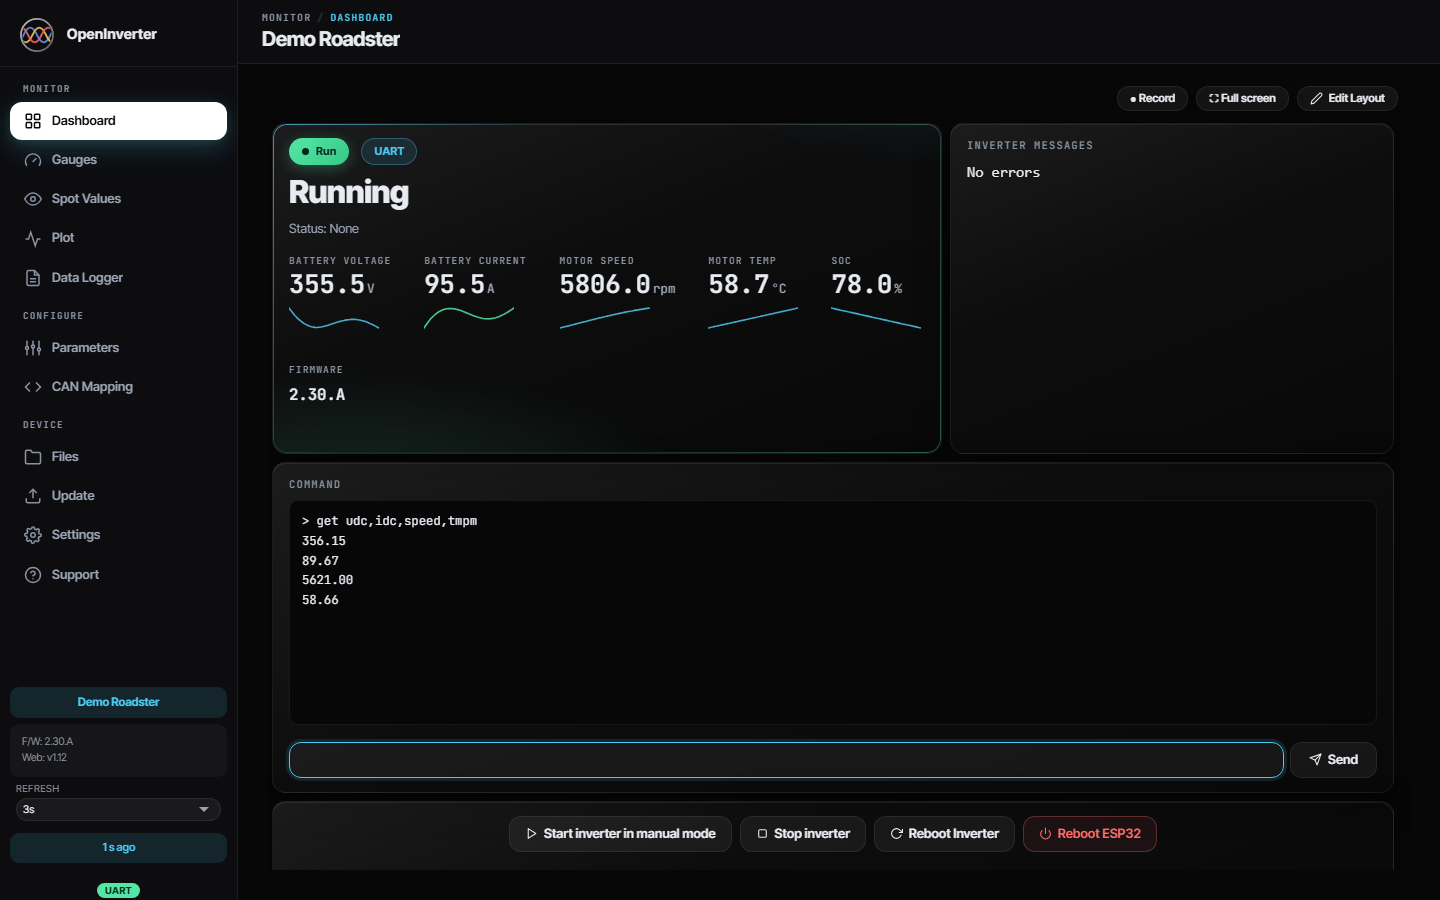
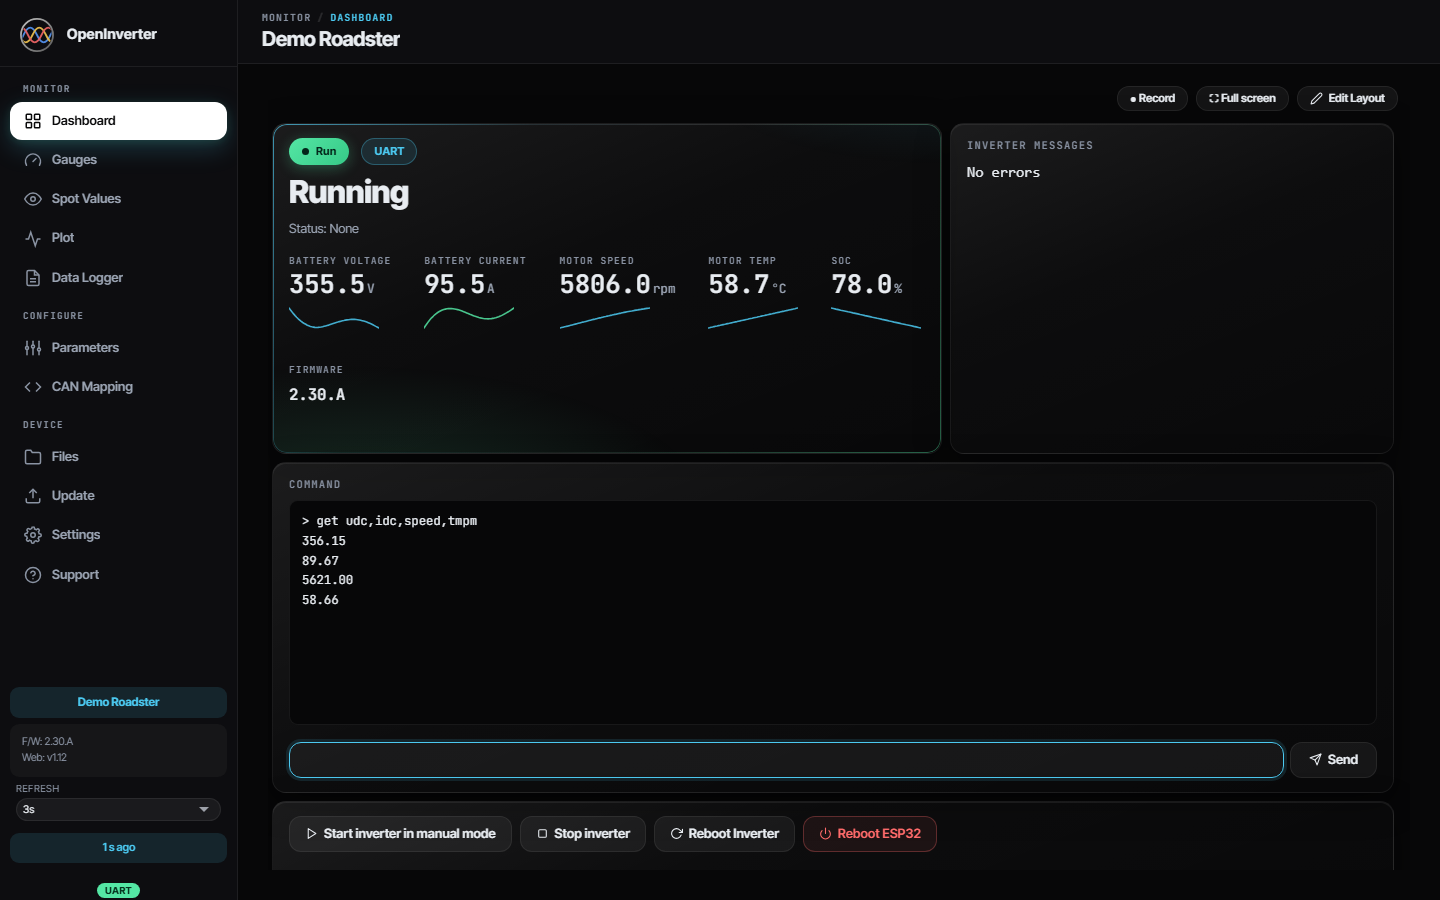
Redesign phase 5: contrast pass and polish
- Light theme: accent and info text deepened to #0369a1 (5.0:1 on the
  ground, was 3.5:1); the Run pill uses #0b7a48 -> #096b3f under white
  text (5.4:1, was 3.5:1) via --pill-ok-a/b. The dark theme already
  passes 4.5:1 for small text throughout.
- Widget wrappers use a wt-<type> modifier: 'widget-actions' collided
  with the button row's class and centred the action buttons.
- doc/REDESIGN.md: all five phases recorded, with what is left for later.
- Screenshots regenerated.

Changed region(s): [[0.375, 0.9022, 0.8125, 0.9333], [0.2188, 0.9022, 0.3438, 0.9333]]

diff --git a/data/style.css b/data/style.css
@@ -26,15 +26,15 @@
   --text: #16161a;
   --text2: #5c5c66;
   --text3: #686872;
-  --accent: #0284c7;
-  --accent2: #0369a1;
+  --accent: #0369a1;   /* 5.0:1 on the light ground (#0284c7 was 3.5:1) */
+  --accent2: #075985;
   --accent-glow: rgba(2,132,199,.12);
   --green: #0f9d63;
   --green2: #0c7d4f;
   --red: #c8232c;
   --amber: #9a5b00;
   /* state tones */
-  --tone-info: #0284c7;     --tone-info-bg: rgba(2,132,199,.1);
+  --tone-info: #0369a1;     --tone-info-bg: rgba(2,132,199,.1);
   --tone-active: #0b7a48;   --tone-active-bg: rgba(15,157,99,.12);
   --tone-warn: #9a5b00;     --tone-warn-bg: rgba(217,119,6,.12);
   --tone-danger: #c8232c;   --tone-danger-bg: rgba(220,38,38,.1);
@@ -52,6 +52,7 @@
   --ctl-bg: #ffffff; --ctl-hover: #f2f2f4;
   --row-hover: rgba(0,0,0,.025);
   --pill-ok-fg: #ffffff;
+  --pill-ok-a: #0b7a48; --pill-ok-b: #096b3f; /* white text at 5.4:1 */
   --glow-pri: 0 8px 26px rgba(2,132,199,.18);
   --font: "Inter Tight", system-ui, -apple-system, "Segoe UI", Roboto, sans-serif;
   --mono: "JetBrains Mono", ui-monospace, "SF Mono", "Cascadia Code", "Consolas", monospace;
@@ -95,6 +96,7 @@
   --ctl-bg: rgba(255,255,255,.055); --ctl-hover: rgba(255,255,255,.11);
   --row-hover: rgba(255,255,255,.025);
   --pill-ok-fg: #03251a;
+  --pill-ok-a: var(--green); --pill-ok-b: var(--green2);
   --glow-pri: 0 8px 26px rgba(76,201,240,.22), 0 2px 10px rgba(84,230,164,.12);
 }
 @media (prefers-color-scheme: dark) {
@@ -131,6 +133,7 @@
     --ctl-bg: rgba(255,255,255,.055); --ctl-hover: rgba(255,255,255,.11);
     --row-hover: rgba(255,255,255,.025);
     --pill-ok-fg: #03251a;
+    --pill-ok-a: var(--green); --pill-ok-b: var(--green2);
     --glow-pri: 0 8px 26px rgba(76,201,240,.22), 0 2px 10px rgba(84,230,164,.12);
   }
 }
@@ -407,7 +410,7 @@ input:checked + .slider::before { transform: translateX(14px); }
 }
 .pill .dot { width: 7px; height: 7px; border-radius: 50%; background: currentColor; animation: pulse-dot 2s ease infinite; }
 .pill.info    { color: var(--tone-info);   background: var(--tone-info-bg); box-shadow: inset 0 0 0 1px color-mix(in srgb, var(--tone-info) 32%, transparent); }
-.pill.active  { color: var(--pill-ok-fg); background: linear-gradient(135deg, var(--green), var(--green2)); box-shadow: 0 3px 14px color-mix(in srgb, var(--green) 30%, transparent); }
+.pill.active  { color: var(--pill-ok-fg); background: linear-gradient(135deg, var(--pill-ok-a), var(--pill-ok-b)); box-shadow: 0 3px 14px color-mix(in srgb, var(--green) 30%, transparent); }
 .pill.warn    { color: var(--tone-warn);   background: var(--tone-warn-bg); box-shadow: inset 0 0 0 1px color-mix(in srgb, var(--tone-warn) 34%, transparent); }
 .pill.danger  { color: var(--tone-danger); background: var(--tone-danger-bg); }
 .pill.muted   { color: var(--text2);       background: var(--surface3); }
@@ -1059,7 +1062,7 @@ button.danger { color: var(--red); background: color-mix(in srgb, var(--red) 7%,
 .widget-body { align-items: stretch; text-align: left; }
 .widget-actions { display: flex; flex-wrap: wrap; gap: 8px; align-items: center; justify-content: flex-start; }
 .widget-actions button { width: auto; margin: 0; }
-.widget-terminal #commandoutput { flex: 1; min-height: 3em; overflow: auto; }
+.wt-terminal #commandoutput { flex: 1; min-height: 3em; overflow: auto; }
 .widget-pre { margin: 0; overflow: auto; }
 .widget-note { font-size: .78rem; color: var(--text3); margin: 0; }
 .widget-metric .metric-value { font-size: clamp(1.3rem, 2.2vw, 1.9rem); }

diff --git a/data/app.js b/data/app.js
@@ -4859,7 +4859,7 @@ const CanSendTile = () => {
 
 // While editing, a widget is inert: a tap configures it instead of firing it
 const WidgetTile = ({ g, value, unit, enums, nameVals, editing }) => html`
-  <div class="widget-body widget-${g.type}" inert=${editing || undefined}>
+  <div class="widget-body wt-${g.type}" inert=${editing || undefined}>
     ${g.type === 'status' ? html`<${StatusTile} g=${g} nameVals=${nameVals} />`
       : g.type === 'metric' ? html`<${MetricTile} g=${g} value=${value} unit=${unit} enums=${enums} />`
       : g.type === 'messages' ? html`<${MessagesTile} editing=${editing} />`

diff --git a/doc/REDESIGN.md b/doc/REDESIGN.md
@@ -29,7 +29,14 @@ cell min/max are illustrations of what a widget *can* show, not existing feature
 | 2. Components | **Done** | Glass cards (`--card-bg`) with the gradient edge only on hero cards (`.edge`, `.hero-card`) plus a running aurora (`.hero-card:has(.pill.active)`); sidebar selection is Homestead's pill (`--on-bg`/`--on-fg`) lit by `--glow-pri`; neutral glass buttons, `button.primary` = the selected-pill colours, `button.danger` red tint; gradient `Run` pill, outlined info/warn pills; mono uppercase labels (h3, metric labels, table heads); 12 px fields; gauge tiles share the card glass; page switchers are a segmented control (`.seg` on `#gauge-pages`, `#settings-subtabs`); reduced-motion and reduced-transparency honoured. Both themes checked in screenshots. 245 E2E pass (one existing timing flake in `gauge-extras` under full parallel load: 10/10 alone). Not yet done: gauge arcs keep each tile's own colour (the signature gradient as the default tile colour comes with Phase 3's new tile types). |
 | 3. Shared widget system | **Done** | The Dashboard tab is the Gauges component in dash mode (`<Gauges dash>`), showing the page `gauges.json` v4 names as `dashboard`. Old layouts (v1–v3) gain a Dashboard page rebuilt from the old fixed dashboard (status, messages, terminal, actions, CAN sender) and keep every gauge page; `loadSampleLayout` keeps the Dashboard page. Widget tile types `status`, `metric`, `messages`, `terminal`, `actions`, `cansend` work on any page; in edit mode they're inert so a tap configures them. Tile settings gained "Move to page" (Dashboard ↔ gauge pages), status figures and action-button choice. `stack` pages: full width and scrolling on desktop, tiles stacked in reading order on phones. The Dashboard keeps the global json poll running (link state, messages) while its tiles stream; gauge pages still pause it. Old `Dashboard` component removed. Tests: 6 new (`dashboard-widgets.spec.mjs`); gauge specs read v4 (`savedLayout` sets the Dashboard page aside). Deferred: the `battery` tile (Phase 5). |
 | 4. App chrome | **Done** | Sidebar grouped into Monitor / Configure / Device with mono section labels and a brand header; nav items are real `<button>`s (`.tablink` kept, `aria-current` on the active one). Glass top bar (`#topbar`) with breadcrumb and page title (the device name on the Dashboard); the tabs' own `h2` headings are hidden. Parameters: sticky save bar counting live sets (`oi-param-set` / `oi-params-saved` events, reset by save or restore) with Restore / Save to flash. Phones (< 600 px): 5-tab bottom bar (Home, Gauges, Values, Params, More) with the signature marker; More opens the sidebar as a drawer (hidden with `visibility` when closed so focus can't land in it); gauge pages scroll instead of shrinking to the screen height; the read-only banner sits above the bar. Test helpers: `openApp` waits for `#topbar`, `gotoTab` opens the drawer on phones; the phone navigation and sign-in tests cover the bar and drawer. |
-| 5. Polish | Next | |
+| 5. Polish | **Done** | Contrast pass (WCAG 4.5:1 for small text): dark theme passes throughout; light theme accent and info text deepened to `#0369a1` (5.0:1, was 3.5:1) and the Run pill to `#0b7a48`→`#096b3f` with white text (5.4:1, was 3.5:1) via `--pill-ok-a/b`. Fixed a class collision that centred the action buttons (widget wrappers now use `wt-<type>`). Screenshots, README images and the live demo pick everything up from `data/`. |
+
+### Left for later
+
+- **`battery` tile** (SOC bar plus three sub-values): the `metric` tile covers single values today.
+- **Animated number transitions** on live values: skipped for now; the readouts update in place.
+- **Phone screenshots in light mode** and a light-theme hero image.
+- The Parameters page still uses its existing layout with the Blend components; the category rail beside the table from the mockup is not built yet.
 
 ## Ground rules
 
